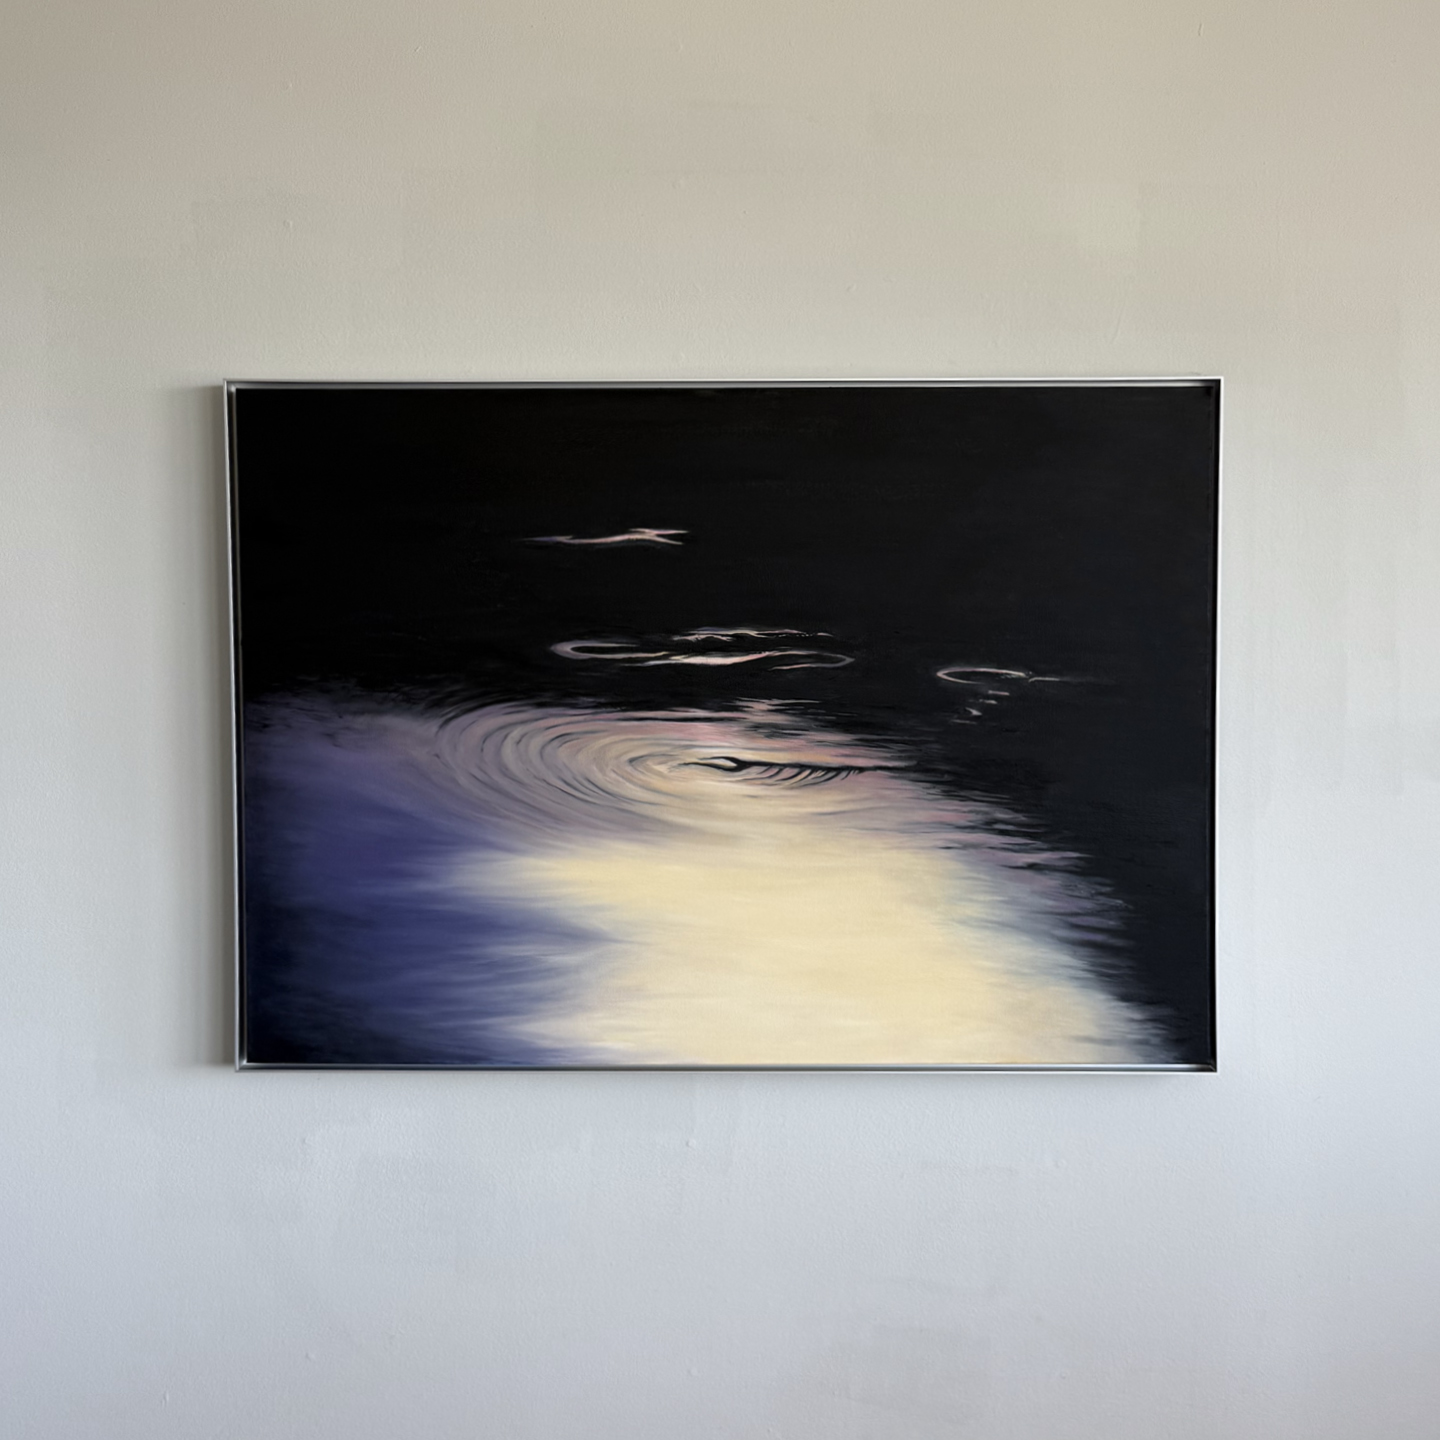
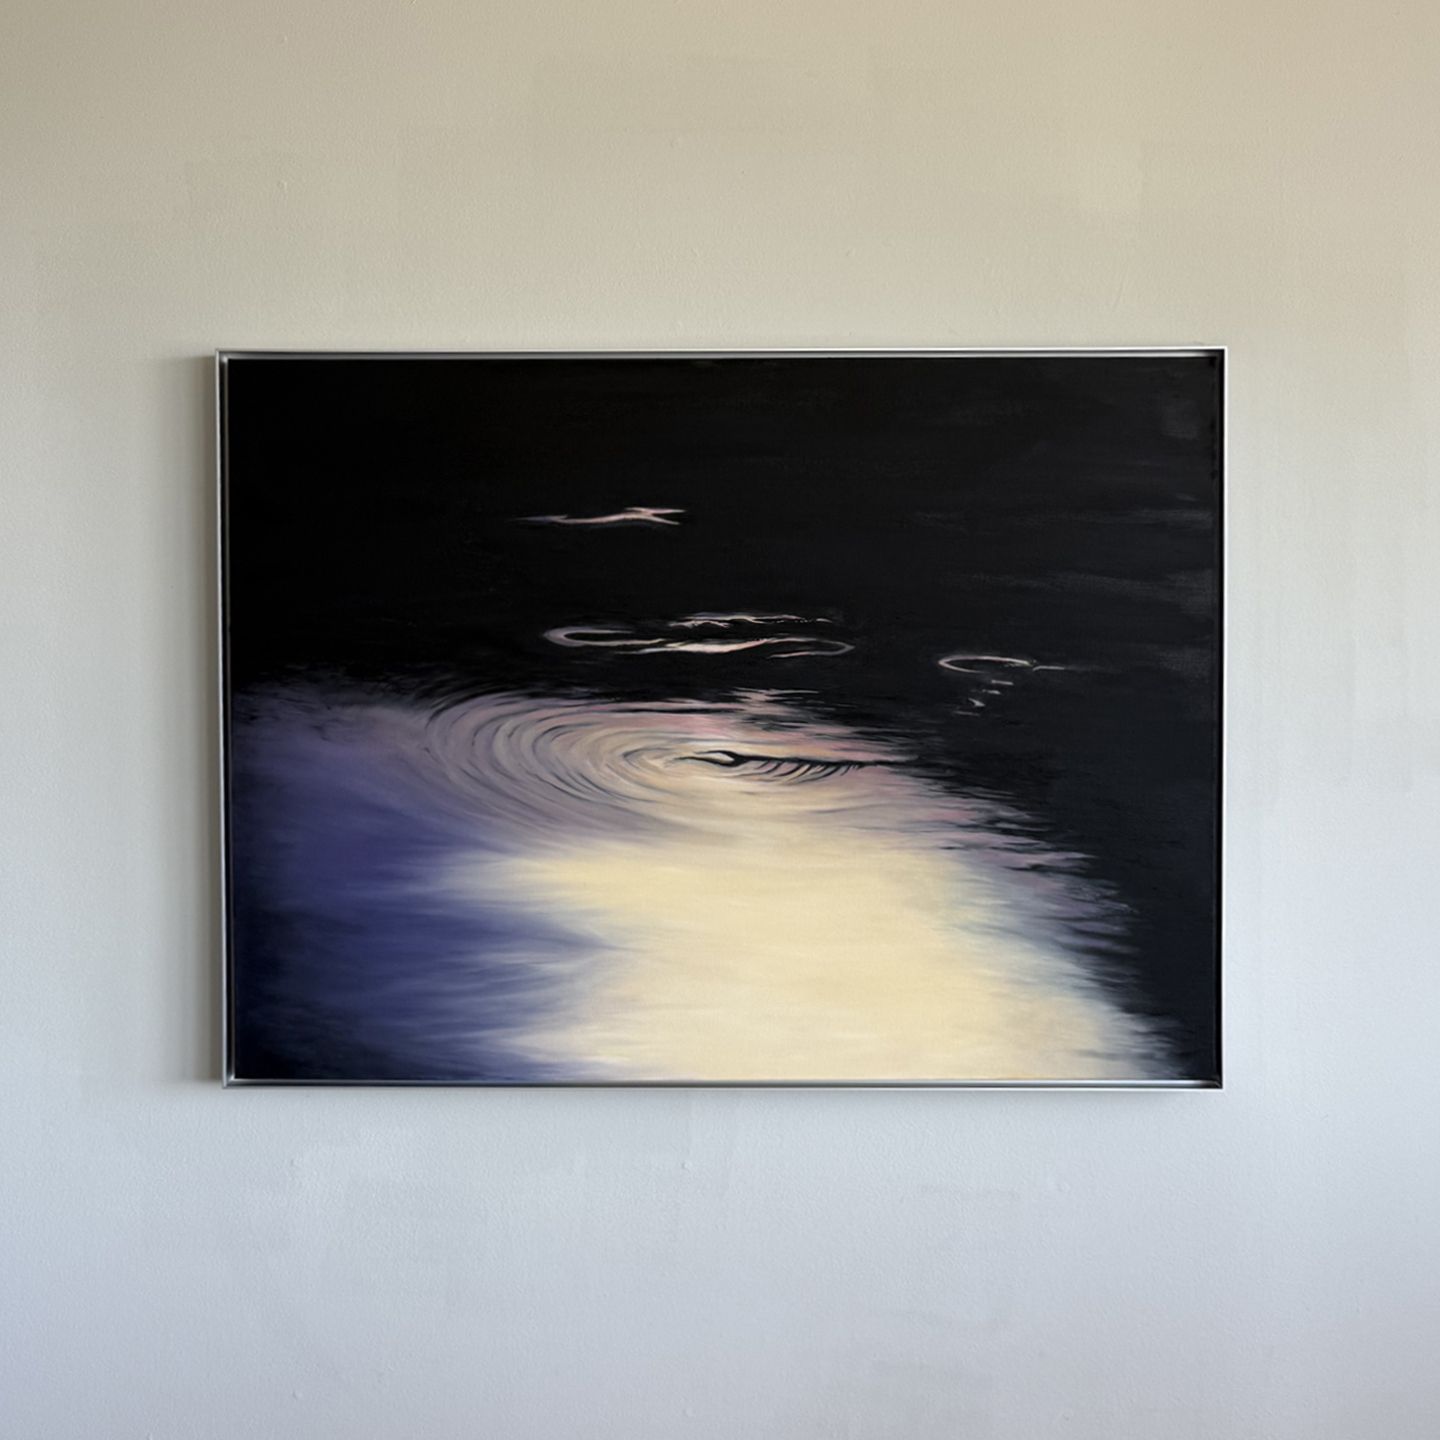
Update Water’s Edge cover photo

diff --git a/art.html b/art.html
@@ -112,9 +112,9 @@ document.addEventListener("DOMContentLoaded", function(){
   "items": [
     {
       "_id": "waters-edge-1",
-      "origFileName": "1.jpg",
+      "origFileName": "Watersedge1.jpg",
       "fileName": "waters-edge-1.jpg",
-      "fileSize": 629575,
+      "fileSize": 633052,
       "height": 1440,
       "url": "images/waters-edge-1.jpg",
       "width": 1440,
